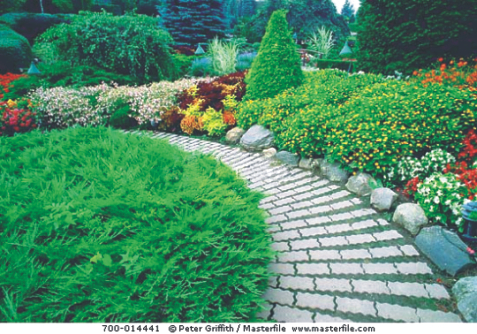
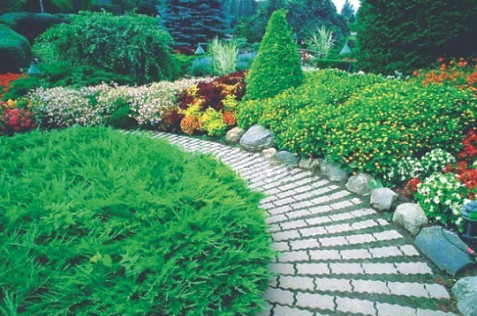
Your latest changes

diff --git a/index.html b/index.html
@@ -169,7 +169,7 @@ button,input,textarea{font-family:inherit}
       <img src="https://rfnfoddjvbuojadwsjyx.supabase.co/storage/v1/object/public/uploads/company-assets/image-1.png" alt="">
       <img src="https://rfnfoddjvbuojadwsjyx.supabase.co/storage/v1/object/public/uploads/company-assets/pdf-extracted/profile-p-p01-04.jpg" alt="">
       <img src="https://rfnfoddjvbuojadwsjyx.supabase.co/storage/v1/object/public/uploads/company-assets/image-4.png" alt="">
-      <img src="https://rfnfoddjvbuojadwsjyx.supabase.co/storage/v1/object/public/uploads/company-assets/pdf-extracted/profile-p-p01-05.jpg" alt="">
+      <img src="https://rfnfoddjvbuojadwsjyx.supabase.co/storage/v1/object/public/uploads/company-assets/pdf-extracted/1781009870855-886782.jpg" alt="">
     </div>
     <div class="hero-content">
       <img class="hero-mark" src="https://rfnfoddjvbuojadwsjyx.supabase.co/storage/v1/object/public/uploads/company-assets/picture1.jpg" alt="The Primrose Path">